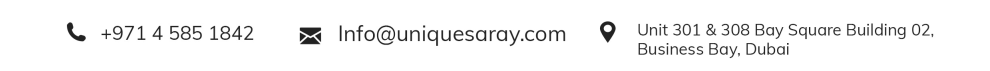
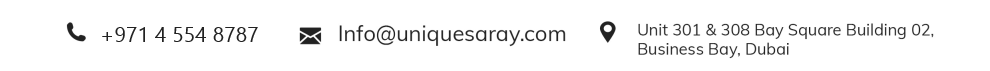
Change tail image. Add trade license. Fix jointly purchaser info.

Changed region(s): [[0.0909, 0.338, 0.2727, 0.5915]]

diff --git a/resources/views/pdf/reservation_form.blade.php b/resources/views/pdf/reservation_form.blade.php
@@ -217,19 +217,19 @@
         <tr>
             <th class="left-th" style="width: 25%;">Purchaser Name</th>
             <td class="" style="width: 25%; text-align: center">{{ $customerInfos[0]->name }}</td>
-            <td class="" style="width: 25%; text-align: center">{{ $customerInfos[1]?->name }}</td>
+            <td class="" style="width: 25%; text-align: center">{{ ($customerInfos[1] ?? null)?->name ?? '-' }}</td>
             <th class="right-th" style="width: 25%;">اسم المشتري</th>
         </tr>
         <tr>
             <th class="left-th" style="width: 25%;">Nationality</th>
             <td class="" style="width: 25%; text-align: center">{{ $customerInfos[0]->nationality }}</td>
-            <td class="" style="width: 25%; text-align: center">{{ $customerInfos[1]?->nationality }}</td>
+            <td class="" style="width: 25%; text-align: center">{{ ($customerInfos[1] ?? null)?->nationality  ?? '-' }}</td>
             <th class="right-th" style="width: 25%;">الجنسية</th>
         </tr>
         <tr>
             <th class="left-th" style="width: 25%;">Passport No.</th>
             <td class="" style="width: 25%; text-align: center">{{ $customerInfos[0]->passport_number }}</td>
-            <td class="" style="width: 25%; text-align: center">{{ $customerInfos[1]?->passport_number }}</td>
+            <td class="" style="width: 25%; text-align: center">{{ ($customerInfos[1] ?? null)?->passport_number  ?? '-' }}</td>
             <th class="right-th" style="width: 25%;">رقم جواز السفر</th>
         </tr>
         <tr>
@@ -247,7 +247,7 @@
         <tr>
             <th class="left-th" style="width: 25%;">Country</th>
             <td class="" style="width: 25%; text-align: center">{{ $customerInfos[0]->nationality }}</td>
-            <td class="" style="width: 25%; text-align: center">{{ $customerInfos[1]?->nationality }}</td>
+            <td class="" style="width: 25%; text-align: center">{{ ($customerInfos[1] ?? null)?->nationality ?? '-' }}</td>
             <th class="right-th" style="width: 25%;">الدولة</th>
         </tr>
         <tr>
@@ -259,25 +259,25 @@
         <tr>
             <th class="left-th" style="width: 25%;">Address</th>
             <td class="" style="width: 25%; text-align: center">{{ $customerInfos[0]->address }}</td>
-            <td class="" style="width: 25%; text-align: center">{{ $customerInfos[1]?->address }}</td>
+            <td class="" style="width: 25%; text-align: center">{{ ($customerInfos[1] ?? null)?->address ?? '-' }}</td>
             <th class="right-th" style="width: 25%;">العنوان</th>
         </tr>
         <tr>
             <th class="left-th" style="width: 25%;">Mobile No.</th>
             <td class="" style="width: 25%; text-align: center">{{ $customerInfos[0]->phone_number }}</td>
-            <td class="" style="width: 25%; text-align: center">{{ $customerInfos[1]?->phone_number }}</td>
+            <td class="" style="width: 25%; text-align: center">{{ ($customerInfos[1] ?? null)?->phone_number ?? '-' }}</td>
             <th class="right-th" style="width: 25%;">الهاتف المتحرك</th>
         </tr>
         <tr>
             <th class="left-th" style="width: 25%;">Telephone No.</th>
             <td class="" style="width: 25%; text-align: center">{{ $customerInfos[0]->phone_number }}</td>
-            <td class="" style="width: 25%; text-align: center">{{ $customerInfos[1]?->phone_number }}</td>
+            <td class="" style="width: 25%; text-align: center">{{ ($customerInfos[1] ?? null)?->phone_number ?? '-' }}</td>
             <th class="right-th" style="width: 25%;">الهاتف</th>
         </tr>
         <tr>
             <th class="left-th" style="width: 25%;">Email</th>
             <td class="" style="width: 25%; text-align: center">{{ $customerInfos[0]->email }}</td>
-            <td class="" style="width: 25%; text-align: center">{{ $customerInfos[1]?->email }}</td>
+            <td class="" style="width: 25%; text-align: center">{{ ($customerInfos[1] ?? null)?->email ?? '-' }}</td>
             <th class="right-th" style="width: 25%;">البريد الإلكتروني</th>
         </tr>
         <tr>
@@ -777,19 +777,21 @@
                 <h4>التاريخ: &nbsp;&nbsp;<img src="{{ public_path('images/black_line.svg') }}" width="250" height="2" alt="___" /> </h4>
             </td>
         </tr>
+        @isset($customerInfos[1])
         <tr>
             <td class="left-th" style="width: 49%; padding: 7px; text-align: justify; line-height: 2.5;">
-                <h4>Name:  {{ $customerInfos[1]?->name }} </h4>
+                <h4>Name:  {{ ($customerInfos[1] ?? null)?->name }} </h4>
                 <h4>Signed: <img src="{{ public_path('images/black_line.svg') }}" width="250" height="2" alt="___" /> </h4>
                 <h4>Date: &nbsp;&nbsp;&nbsp;&nbsp;&nbsp;<img src="{{ public_path('images/black_line.svg') }}" width="250" height="2" alt="___" /> </h4>
             </td>
             <td style="text-align: center;"> </td>
             <td class="rtl-text right-th" style="line-height: 2.5; width: 49%; padding: 7px; text-align: justify;">
-                <h4>الاسم: {{ $customerInfos[1]?->name }}  </h4>
+                <h4>الاسم: {{ ($customerInfos[1] ?? null)?->name }}  </h4>
                 <h4>التوقيع: <img src="{{ public_path('images/black_line.svg') }}" width="250" height="2" alt="___" /> </h4>
                 <h4>التاريخ: &nbsp;&nbsp;<img src="{{ public_path('images/black_line.svg') }}" width="250" height="2" alt="___" /> </h4>
             </td>
         </tr>
+        @endisset
     </table>
     <!-- Example page break
 <div class="page-break"></div>

diff --git a/resources/views/pdf/broker_agreement.blade.php b/resources/views/pdf/broker_agreement.blade.php
@@ -159,8 +159,7 @@
         <p>
             BETWEEN<br/>
             Unique Saray Development, a company duly registered in the Emirate of Dubai, United Arab Emirates with
-            license number
-            000000 and having its address at PO Box ………. Bay Square, Business Bay Building, Dubai, United Arab
+            license number 1343857 and having its address at PO Box ………. Bay Square, Business Bay Building, Dubai, United Arab
             Emirates, telephone: 04 554 8787,
             email id: info@uniquesaray.com (the "Seller");
 
